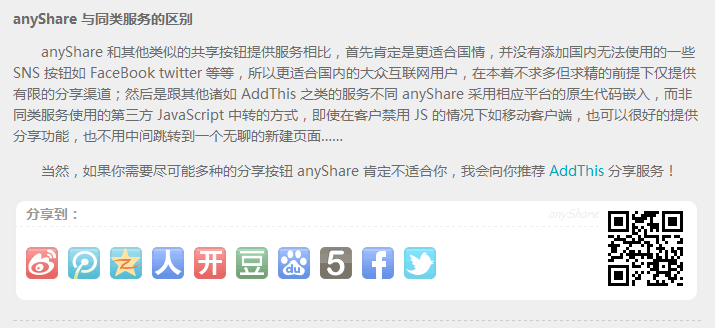
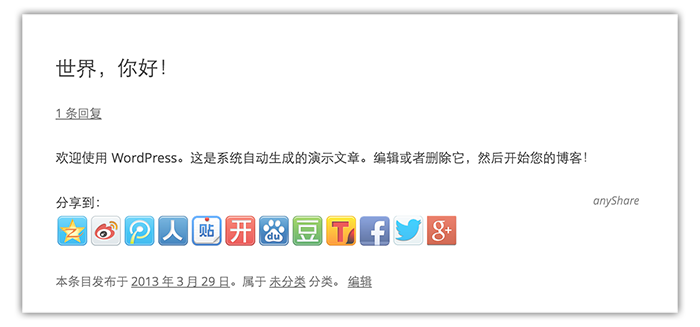
新版 WordPress 测试

Changed region(s): [[0.0, 0.0306, 0.99, 0.9786], [0.0, 0.581, 0.66, 0.9174]]

diff --git a/for WordPress/anyShare.css b/for WordPress/anyShare.css
@@ -1,35 +1,22 @@
-/* CSS Document for anyShare by anyLiv 0411-2011 */
+@charset "utf-8"; /* CSS Document for anyShare by nan.im 0330-2013 */
 
-#anyShare { width:99%; background:#FFF; box-shadow:0 0 5px #EEE;
-	font-family: 'comic sans ms', fantasy !important; margin:20px auto;
-	border:0 !important; border-radius:9px; border-collapse:collapse;
-}
-#anyShare i { float:right; color:#EEE; font-size:10px; }
-#anyShare b { font-family:"\5fae\8f6f\96c5\9ed1"; font-size:14px; color:#999;
-	padding-left:10px; display:block; border-bottom:1px dashed #EEE;
-}
-#anyShare td { border:0 !important; padding:0 !important; vertical-align:middle; }
-#anyShare br { }
-#anyShare img { margin:10px; }
+#anyShare { display: block; margin: 20px auto; }
+#anyShare:after { visibility: hidden; display: block; font-size: 0; content: " "; clear: both; height: 0; }
+#anyShare b { display: block; font-weight: normal; }
+#anyShare i { float: right; font-size: 10px; opacity: 0.618; }
+#anyShare a { float: left; height: 32px; width: 32px; margin: 2px; overflow: hidden; text-indent: -9em; opacity: 0.7; }
+#anyShare a { background-image: -webkit-image-set(url(ICON.png) 1x, url(ICON-2X.png) 2x); }
+#anyShare a:hover { opacity: 1; }
+#anyShare a#L766 { background-position: 35px -3px; }
+#anyShare a#L398 { background-position: -3px -3px; }
+#anyShare a#L161 { background-position: -38px -3px; }
+#anyShare a#L301 { background-position: -73px -38px; }
+#anyShare a#L280 { background-position: -38px -73px; }
+#anyShare a#L315 { background-position: -38px -38px; }
+#anyShare a#L472 { background-position: -3px -73px; }
+#anyShare a#L937 { background-position: -108px -38px; }
+#anyShare a#L115 { background-position: -73px -3px; }
+#anyShare a#L944 { background-position: -3px -38px; }
+#anyShare a#L050 { background-position: -108px -74px; }
+#anyShare a#L918 { background-position: -73px -74px; }
 
-#AS-TXT { border-bottom:1px dashed #EEE; line-height:25px; }
-#AS-IMG { width:99px; height:99px; }
-#AS-BTN { }
-#AS-BTN a { display:inline-block; width:32px; height:32px; overflow:hidden; margin-left:10px;
-	opacity:0.7; border-radius:5px;
-	background:#FFF url(anyShare.png) no-repeat;
-}
-#AS-BTN a:hover { opacity:1; }
-
-a#qqtwet { background-position:0 -352px; }
-a#renren { background-position:0 -416px; }
-a#kaixin { background-position:0 -448px; }
-a#qqzone { background-position:0 -384px; }
-a#sntwet { background-position:0 -320px; }
-a#bdcang { background-position:0 -288px; }
-a#shuoke { background-position:0 -200px; }
-a#qqfavs { }
-a#douban { background-position:0 -639px; }
-a#facebk { background-position:0 -224px; }
-a#twiter { background-position:0 -256px; }
-a#folow5 { background-position:0 -671px; }

diff --git a/for WordPress/anyShare.php b/for WordPress/anyShare.php
@@ -2,48 +2,53 @@
 
 /*
 Plugin Name: anyShare
-Version:     0.5
-Plugin URI:  http://anyLiv.com/blog/1302
-Description: Sharing buttons for Chinese SNS.
-Author:      anyLiv
-Author URI:  http://anyLiv.com/
+Version:     0.9
+Author:      nan
+Author URI:  http://nan.im/
+Plugin URI:  http://nan.im/blog/1302
+Description: Easy sharing for China SNS.
 */
 
-//wp_enqueue_style('anyShare', WP_PLUGIN_URL.'/'.dirname(plugin_basename(__FILE__)).'/anyShare.css');
 
 // for add to content ...
-function anyShare($outer){
-	if(!is_singular()){ return $outer; }
+function anyShare($HTM){
+
+	if(!is_singular()): return $HTM; endif;
 
 	global $post;
-	$share = array();
-	$pName = rawurlencode($post->post_title);
-	$pHref = rawurlencode(get_permalink($post->ID));
+	$TXT = rawurlencode($post->post_title);
+	$URL = rawurlencode(get_permalink());
 
-	$share['sntwet'] = array('新浪微博', 'http://v.t.sina.com.cn/share/share.php?url='.$pHref);
-	$share['qqtwet'] = array('腾讯微博', 'http://v.t.qq.com/share/share.php?appkey=2e295ab2ff8245229d96fa3768a9f779&url='.$pHref.'&title='.$pName);
-	$share['qqzone'] = array('腾讯空间', 'http://sns.qzone.qq.com/cgi-bin/qzshare/cgi_qzshare_onekey?url='.$pHref);
-	$share['renren'] = array('人人社区', 'http://share.renren.com/share/buttonshare.do?link='.$pHref.'&title='.$pName);
-	$share['kaixin'] = array('开心社区', 'http://www.kaixin001.com/repaste/share.php?rurl='.$pHref.'&rtitle='.$pName);
-	$share['douban'] = array('豆瓣社区', 'http://www.douban.com/recommend/?url='.$pHref);
-	$share['bdcang'] = array('百度搜藏', 'http://cang.baidu.com/do/add?iu='.$pHref.'&it='.$pName);
-	$share['folow5'] = array('Follow5', 'http://www.follow5.com/f5/discuz/sharelogin.jsp?url='.$pHref.'&title='.$pName);
-	$share['facebk'] = array('facebook', 'http://www.facebook.com/share.php?u='.$pHref);
-	$share['twiter'] = array('twitter', 'http://twitter.com/home?status='.$pName.'-'.$pHref);
+	$CSS = file_exists(get_template_directory().'/anyShare.css') ? (get_template_directory_uri().'/anyShare.css') : (WP_PLUGIN_URL.'/'.dirname(plugin_basename(__FILE__)).'/anyShare.css');
+	wp_enqueue_style('anyShare', $CSS, NULL, '0.9');
 
-	$outer .= "\n<!-- Begin anyShare -->\n";
-	$outer .= '<link rel="stylesheet" href="'.WP_PLUGIN_URL.'/'.dirname(plugin_basename(__FILE__)).'/anyShare.css?v=5">';
-	$outer .= '<table id="anyShare"><tr><td id="AS-TXT"><i>anyShare</i><b>分享到：</b></td><td id="AS-IMG" rowspan="2">';
-	$outer .= '<img src="http://chart.apis.google.com/chart?cht=qr&chld=|0&choe=UTF-8&chs=75x75&chl='.$pHref.'">';
-	$outer .= '</td></tr><tr><td id="AS-BTN">';
-	foreach($share as $key => $btn){
-		$outer .= '<a id="'.$key.'" title="'.$btn[0].'" href="'.$btn[1].'" target="_blank">&nbsp;</a>';
+	$API = array(
+		'QQ空间' => 'http://sns.qzone.qq.com/cgi-bin/qzshare/cgi_qzshare_onekey?url={URL}&title={TXT}&desc=&summary=&site=&pics=',
+		'新浪微博' => 'http://service.weibo.com/share/share.php?url={URL}&title={TXT}&appkey=3581453612&pic=&sudaref={URL}',
+		'腾讯微博' => 'http://share.v.t.qq.com/index.php?c=share&a=index&url={URL}&title={TXT}&appkey=2e295ab2ff8245229d96fa3768a9f779',
+		'人人网' => 'http://widget.renren.com/dialog/share?resourceUrl={URL}&srcUrl=&title={TXT}&description=',
+		'百度贴吧' => 'http://tieba.baidu.com/f/commit/share/openShareApi?url={URL}&title={TXT}&desc=&comment=',
+		'开心网' => 'http://www.kaixin001.com/rest/records.php?url={URL}&style=11&content={TXT}&stime=&sig=',
+		'百度空间' => 'http://hi.baidu.com/pub/show/share?url={URL}&title={TXT}&content=&linkid=',
+		'豆瓣' => 'http://shuo.douban.com/!service/share?href={URL}&name={TXT}&image=',
+		'搜狐微博' => 'http://t.sohu.com/third/post.jsp?url={URL}&title={TXT}&pic=',
+		'FaceBook' => 'https://www.facebook.com/sharer/sharer.php?u={URL}&t=',
+		'Twitter' => 'https://twitter.com/intent/tweet?source=webclient&text={TXT}%20{URL}',
+		'Google+' => 'https://plus.google.com/share?url={URL}',
+	);
+
+	$HTM .= '<div id="anyShare" class="clearfix">'."\n";
+	$HTM .= '<b><i>anyShare</i>分享到：</b>'."\n";
+	foreach($API as $KEY => $LNK){
+		$LNK = str_replace(array('{TXT}', '{URL}'), array($TXT, $URL), $LNK);
+		$POP = "javascript:window.open(this.href,'','menubar=no,toolbar=no,resizable=yes,scrollbars=yes,height=480,width=640');return false;";
+		$HTM .= '<a target="_blank" rel="nofollow" id="L'.substr(crc32($KEY), -3).'" onclick="'.$POP.'" title="'.$KEY.'" href="'.$LNK.'">'.$KEY.'</a>'."\n";
 	}
-	$outer .= '<br clear="all"></td></tr></table>';
-	$outer .= "\n<!-- anyShare Endof -->\n";
-	return $outer;
+	$HTM .= '<br clear="all"></div><!-- #anyShare -->';
+
+	return $HTM;
 }
 
 add_filter('the_content', 'anyShare');
 
-?>
+
